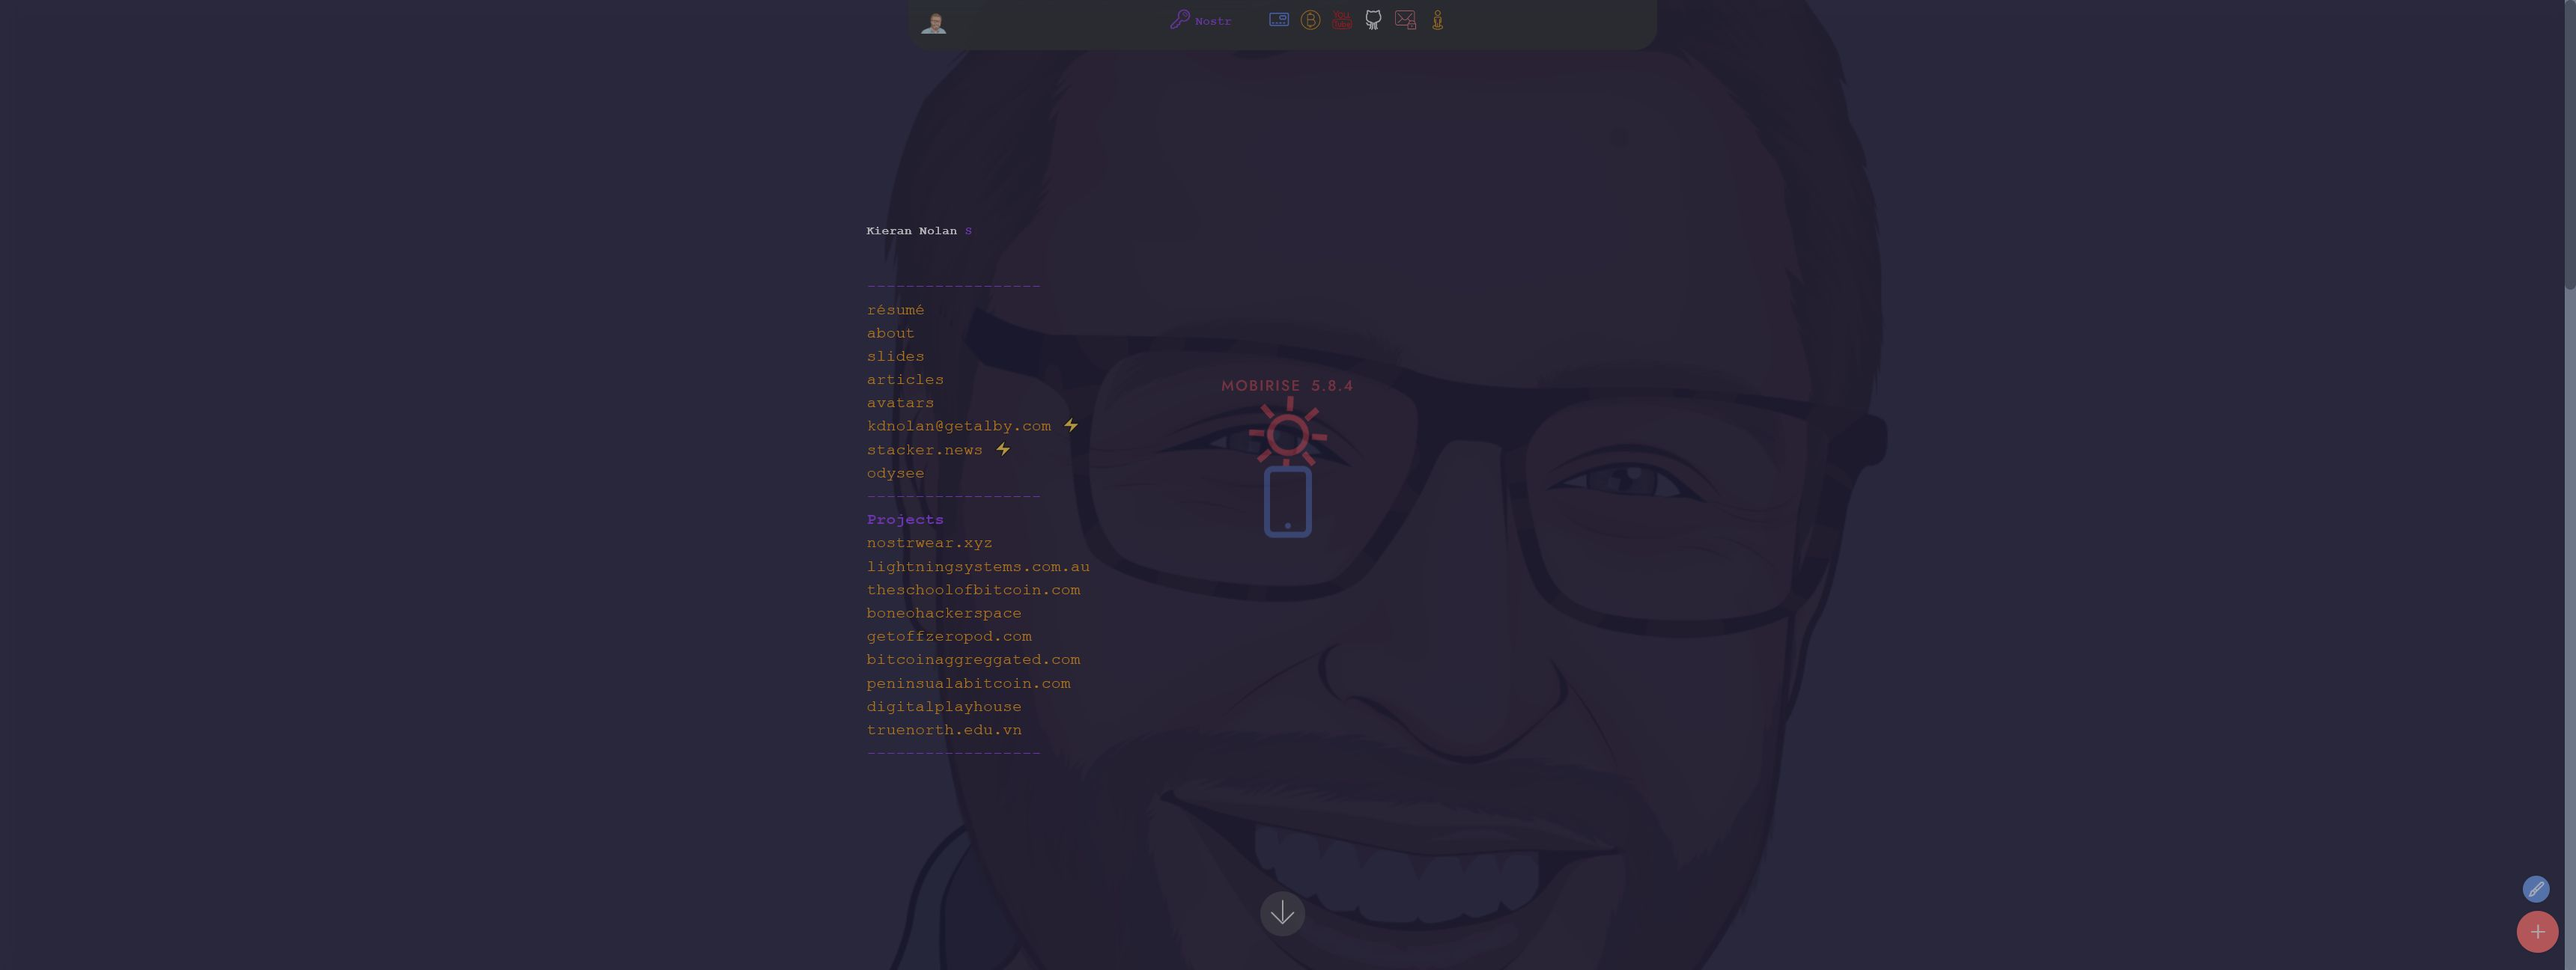
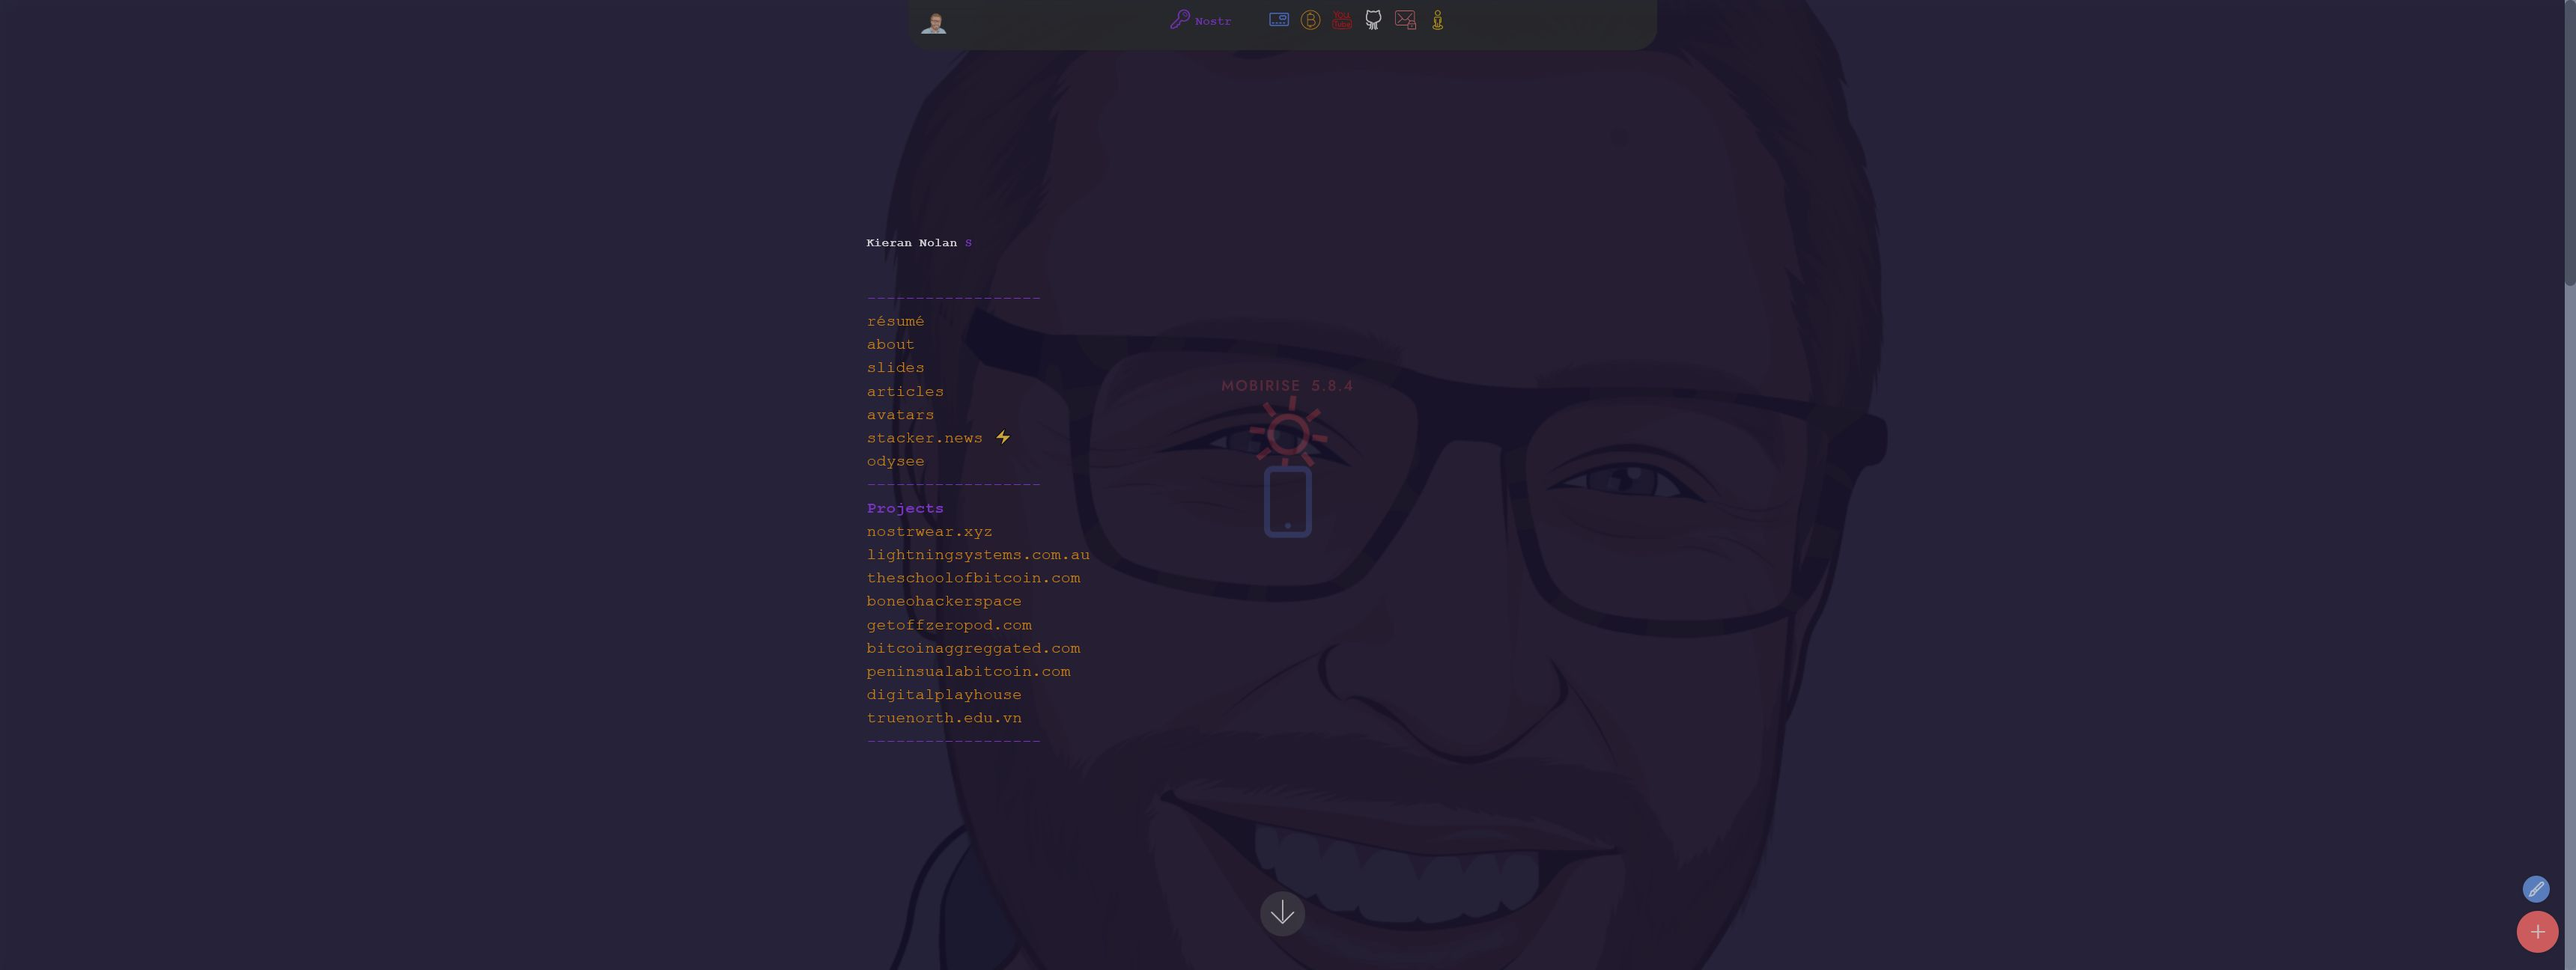
footer/header
footer/header

diff --git a/index.html b/index.html
@@ -28,8 +28,8 @@
   <link rel="stylesheet" href="assets/bootstrap/css/bootstrap-grid.min.css">
   <link rel="stylesheet" href="assets/bootstrap/css/bootstrap-reboot.min.css">
   <link rel="stylesheet" href="assets/animatecss/animate.min.css">
-  <link rel="stylesheet" href="assets/popup-overlay-plugin/style.css">
-    <link rel="stylesheet" href="assets/smart-cart/minicart-theme.css">
+    <link rel="stylesheet" href="assets/popup-overlay-plugin/style.css">
+  <link rel="stylesheet" href="assets/smart-cart/minicart-theme.css">
   <link rel="stylesheet" href="assets/dropdown/css/style.css">
   <link rel="stylesheet" href="assets/theme/css/style.css">
   <link rel="stylesheet" href="assets/gallery/style.css">
@@ -50,11 +50,7 @@
 
     <nav class="navbar navbar-dropdown navbar-fixed-top navbar-expand-lg">
         <div class="navbar-brand">
-            <span class="navbar-logo">
-                
-                    <a href="index.html"><img src="assets/images/photo-20160315-8003902-90x73.webp" alt="kdnolan.com" title="" style="height: 2rem;"></a>
-                
-            </span>
+            
             
         </div>
         <button class="navbar-toggler" type="button" data-toggle="collapse" data-target="#navbarSupportedContent" aria-controls="navbarNavAltMarkup" aria-expanded="false" aria-label="Toggle navigation">
@@ -66,7 +62,7 @@
             </div>
         </button>
         <div class="collapse navbar-collapse" id="navbarSupportedContent">
-            <ul class="navbar-nav nav-dropdown nav-right" data-app-modern-menu="true"><li class="nav-item"><a class="nav-link link text-secondary display-4" href="https://nostr.com/npub1cyla8qgt9gv8y6ydv8s2prt89h8afc0sr2kaz64ryjmlpdrzxm4qwlh53q" aria-expanded="false" target="_blank"><span class="li_key mbr-iconfont mbr-iconfont-btn"></span>Nostr</a></li></ul>
+            <ul class="navbar-nav nav-dropdown nav-right navbar-nav-top-padding" data-app-modern-menu="true"><li class="nav-item"><a class="nav-link link text-secondary display-4" href="https://nostr.com/npub1cyla8qgt9gv8y6ydv8s2prt89h8afc0sr2kaz64ryjmlpdrzxm4qwlh53q" aria-expanded="false" target="_blank"><span class="li_key mbr-iconfont mbr-iconfont-btn"></span>Nostr</a></li></ul>
             
 
             <div class="icons-menu">
@@ -335,7 +331,7 @@
     <div class="container">
         <div class="media-container-row align-center mbr-white">
             <div class="col-12">
-                <p class="mbr-text mb-0 mbr-fonts-style display-4">I am exclusively present on Nostr with the following public key: <a href="https://nosta.me/c13fd3810b2a1872688d61e0a08d672dcfd4e1f01aadd16aa324b7f0b46236ea" class="text-primary" target="_blank">npub1cyla8qgt9gv8y6ydv8s2prt89h8afc0sr2kaz64ryjmlpdrzxm4qwlh53q</a>. 
+                <p class="mbr-text mb-0 mbr-fonts-style display-4">I am exclusively present on Nostr with the following public key: <a href="https://nostr.com/npub1cyla8qgt9gv8y6ydv8s2prt89h8afc0sr2kaz64ryjmlpdrzxm4qwlh53q" class="text-primary" target="_blank">npub1cyla8qgt9gv8y6ydv8s2prt89h8afc0sr2kaz64ryjmlpdrzxm4qwlh53q</a>. 
 <br>
 <br><strong>I'm NOT on any of the following:
 <br></strong>Facebook☠
@@ -350,7 +346,7 @@
 <br>Tumblr☠
 <br>WeChat☠
 <br>Discord☠<br><br><a href="https://www.gnu.org/licenses/gpl-3.0.en.html" class="text-primary" target="_blank">GPLv3 Copyleft License</a><br><a href="https://getalby.com/p/kdnolan" class="text-primary" target="_blank">kdnolan@getalby.com ⚡
-</a><br><br></p>
+</a><br><br><br><br><br></p>
             </div>
         </div>
     </div>

diff --git a/VR.html b/VR.html
@@ -22,8 +22,8 @@
   <link rel="stylesheet" href="assets/bootstrap/css/bootstrap-grid.min.css">
   <link rel="stylesheet" href="assets/bootstrap/css/bootstrap-reboot.min.css">
   <link rel="stylesheet" href="assets/animatecss/animate.min.css">
-  <link rel="stylesheet" href="assets/popup-overlay-plugin/style.css">
-      <link rel="stylesheet" href="assets/dropdown/css/style.css">
+    <link rel="stylesheet" href="assets/popup-overlay-plugin/style.css">
+    <link rel="stylesheet" href="assets/dropdown/css/style.css">
   <link rel="stylesheet" href="assets/theme/css/style.css">
   <link rel="preload" href="https://fonts.googleapis.com/css?family=VT323:400&display=swap" as="style" onload="this.onload=null;this.rel='stylesheet'">
   <noscript><link rel="stylesheet" href="https://fonts.googleapis.com/css?family=VT323:400&display=swap"></noscript>
@@ -101,7 +101,7 @@
     <div class="container">
         <div class="media-container-row align-center mbr-white">
             <div class="col-12">
-                <p class="mbr-text mb-0 mbr-fonts-style display-4">I am exclusively present on Nostr with the following public key: <a href="https://nosta.me/c13fd3810b2a1872688d61e0a08d672dcfd4e1f01aadd16aa324b7f0b46236ea" class="text-primary" target="_blank">npub1cyla8qgt9gv8y6ydv8s2prt89h8afc0sr2kaz64ryjmlpdrzxm4qwlh53q</a>. 
+                <p class="mbr-text mb-0 mbr-fonts-style display-4">I am exclusively present on Nostr with the following public key: <a href="https://nostr.com/npub1cyla8qgt9gv8y6ydv8s2prt89h8afc0sr2kaz64ryjmlpdrzxm4qwlh53q" class="text-primary" target="_blank">npub1cyla8qgt9gv8y6ydv8s2prt89h8afc0sr2kaz64ryjmlpdrzxm4qwlh53q</a>. 
 <br>
 <br><strong>I'm NOT on any of the following:
 <br></strong>Facebook☠
@@ -116,7 +116,7 @@
 <br>Tumblr☠
 <br>WeChat☠
 <br>Discord☠<br><br><a href="https://www.gnu.org/licenses/gpl-3.0.en.html" class="text-primary" target="_blank">GPLv3 Copyleft License</a><br><a href="https://getalby.com/p/kdnolan" class="text-primary" target="_blank">kdnolan@getalby.com ⚡
-</a><br><br></p>
+</a><br><br><br><br><br></p>
             </div>
         </div>
     </div>

diff --git a/assets/mobirise/css/mbr-additional.css b/assets/mobirise/css/mbr-additional.css
@@ -1781,7 +1781,7 @@ section.lazy-placeholder:after {
 .cid-tV5cjIel7p {
   padding-top: 30px;
   padding-bottom: 30px;
-  background-color: #232323;
+  background-color: #09021f;
 }
 .cid-tV5cjIel7p .media-container-row .mbr-text {
   text-align: center;
